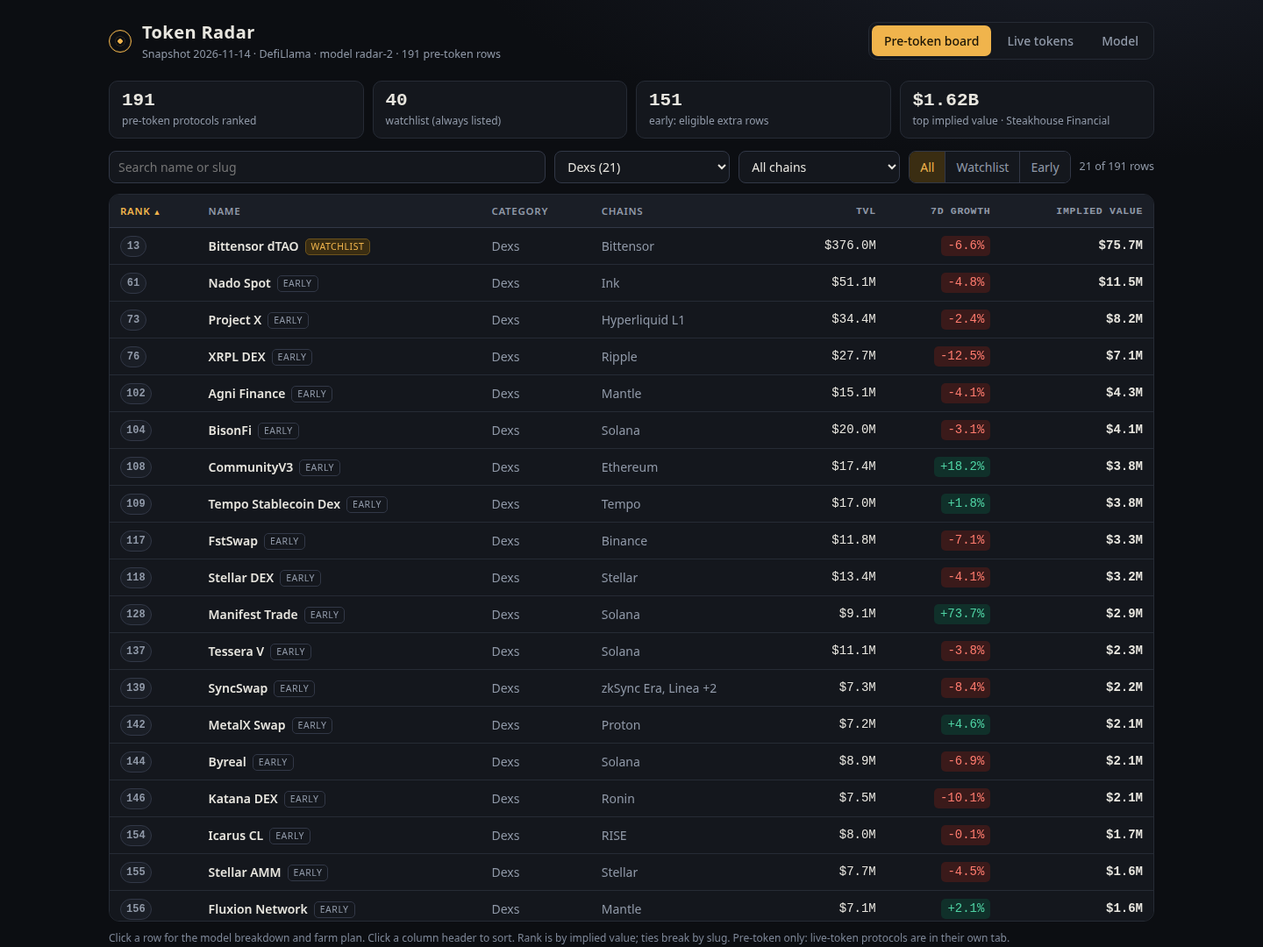
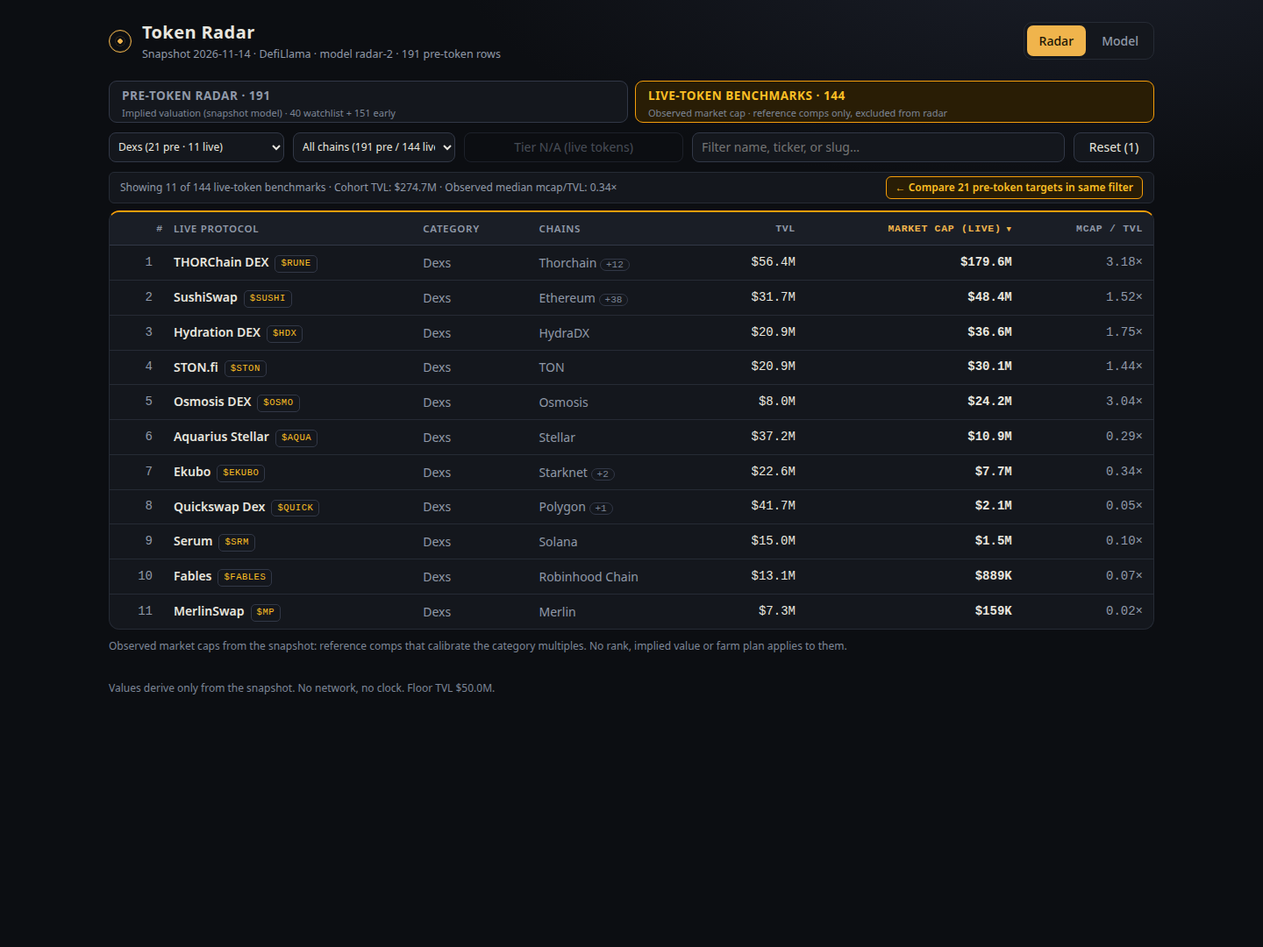
Dashboard v7: dual-regime separation & synced cohort filter bar (pre/live split, category+chain filters, cross-regime bridge)

diff --git a/dashboard/app.js b/dashboard/app.js
@@ -37,29 +37,10 @@
     var s = esc(c.slice(0, 2).join(', '));
     return '<span title="' + esc(c.join(', ')) + '">' + s + (c.length > 2 ? ' <span class="flat">+' + (c.length - 2) + '</span>' : '') + '</span>';
   }
-  function uniq(list, f) {
-    var m = {};
-    list.forEach(function (r) { f(r).forEach(function (k) { m[k] = (m[k] || 0) + 1; }); });
-    return Object.keys(m).sort(function (a, b) { return a < b ? -1 : a > b ? 1 : 0; }).map(function (k) { return [k, m[k]]; });
-  }
-  function opts(pairs, all) {
-    return '<option value="">' + all + '</option>' + pairs.map(function (p) { return '<option value="' + esc(p[0]) + '">' + esc(p[0]) + ' (' + p[1] + ')</option>'; }).join('');
-  }
-  function cmp(key, dir) {
-    return function (a, b) {
-      var va = a[key], vb = b[key];
-      if (va === null || va === undefined) va = dir === 'asc' ? Infinity : -Infinity;
-      if (vb === null || vb === undefined) vb = dir === 'asc' ? Infinity : -Infinity;
-      if (typeof va === 'string') { va = va.toLowerCase(); vb = String(vb).toLowerCase(); }
-      var d = va < vb ? -1 : va > vb ? 1 : 0;
-      if (dir === 'desc') d = -d;
-      return d || (a.slug < b.slug ? -1 : a.slug > b.slug ? 1 : 0);
-    };
-  }
   function head(cols, st) {
     return '<thead><tr>' + cols.map(function (c) {
       var on = st.key === c[0], s = on ? ' aria-sort="' + (st.dir === 'asc' ? 'ascending' : 'descending') + '"' : '';
-      return '<th class="' + (c[2] ? 'n' : '') + '"' + s + '><button data-sort="' + c[0] + '">' + c[1] + '</button></th>';
+      return '<th class="' + (c[2] ? 'n' : '') + '"' + s + '>' + (c[3] ? c[1] : '<button data-sort="' + c[0] + '">' + c[1] + '</button>') + '</th>';
     }).join('') + '</tr></thead>';
   }
   function bindSort(st, redraw) {
@@ -67,71 +48,135 @@
       b.onclick = function () {
         var k = b.getAttribute('data-sort');
         if (st.key === k) st.dir = st.dir === 'asc' ? 'desc' : 'asc';
-        else { st.key = k; st.dir = (k === 'rank' || k === 'name' || k === 'category') ? 'asc' : 'desc'; }
+        else { st.key = k; st.dir = NAT[k] || 'desc'; }
         redraw();
       };
     });
   }
 
-  // ---------- board ----------
-  var B = { key: 'rank', dir: 'asc', q: '', cat: '', chain: '', scope: 'all' };
-  var BCOLS = [['rank', 'Rank'], ['name', 'Name'], ['category', 'Category'], ['chains_n', 'Chains'], ['tvl_usd', 'TVL', 1], ['change_7d', '7d growth', 1], ['implied_value_usd', 'Implied value', 1]];
-  rows.forEach(function (r) { r.chains_n = r.chains.length; });
-
+  // ---------- radar: two regimes (pre / live) sharing one filter bar, never one tbody ----------
+  var F = R.facets, GM = F.global_mult, catMult = {};
+  F.categories.forEach(function (c) { catMult[c.id] = c.mult; });
+  var S = { mode: 'pre', cat: '', chain: '', tier: '', q: '', card: '', pre: { key: 'rank', dir: 'asc' }, liv: { key: 'mcap_usd', dir: 'desc' } };
+  var NAT = { rank: 'asc', name: 'asc', cat: 'asc', pc: 'asc' };
+  var PCOLS = [['rank', 'Rank'], ['name', 'Protocol'], ['cat', 'Category'], ['pc', 'Chains'], ['tvl_usd', 'TVL', 1], ['change_7d', '7d TVL', 1], ['implied_value_usd', 'Implied value', 1]];
+  var LCOLS = [['ord', '#', 1, 1], ['name', 'Live protocol'], ['cat', 'Category'], ['pc', 'Chains'], ['tvl_usd', 'TVL', 1], ['mcap_usd', 'Market cap (live)', 1], ['mcap_tvl', 'Mcap / TVL', 1]];
+  function cmpStr(a, b) { return a < b ? -1 : a > b ? 1 : 0; }
+  function sorter(st) {
+    return function (a, b) {
+      var va = a[st.key], vb = b[st.key], na = va === null || va === undefined, nb = vb === null || vb === undefined;
+      if (na || nb) { if (na && nb) return cmpStr(a.slug, b.slug); return na ? 1 : -1; }
+      if (typeof va === 'string') { va = va.toLowerCase(); vb = vb.toLowerCase(); }
+      var d = cmpStr(va, vb);
+      return (st.dir === 'desc' ? -d : d) || cmpStr(a.slug, b.slug);
+    };
+  }
+  function match(r, mode, noQ) {
+    if (S.cat && r.cat !== S.cat) return false;
+    if (S.chain && r.chains.indexOf(S.chain) < 0) return false;
+    if (mode === 'pre' && S.tier && (S.tier === 'watch') !== r.watchlist) return false;
+    var q = noQ ? '' : S.q.trim().toLowerCase();
+    return !q || r.name.toLowerCase().indexOf(q) >= 0 || r.slug.indexOf(q) >= 0 || (mode === 'live' && (r.symbol || '').toLowerCase().indexOf(q) >= 0);
+  }
+  function nActive() { return (S.cat ? 1 : 0) + (S.chain ? 1 : 0) + (S.tier && S.mode === 'pre' ? 1 : 0) + (S.q.trim() ? 1 : 0); }
+  function chainCell(r) { return esc(r.pc) + (r.chains.length > 1 ? ' <span class="pill" title="' + esc(r.chains.join(', ')) + '">+' + (r.chains.length - 1) + '</span>' : ''); }
+  function fo(arr, f, all) {
+    return '<option value="">' + all + '</option>' + arr.map(function (c) { return '<option value="' + esc(c.id) + '">' + esc(c.id) + ' (' + c.pre + ' pre · ' + c.live + ' live)</option>'; }).join('');
+  }
+  function mult(v) { return v.toFixed(2) + '×'; }
+  function median(list) {
+    var a = list.map(function (r) { return r.mcap_tvl; }).sort(function (p, q) { return p - q; }), n = a.length;
+    return n ? (n % 2 ? a[(n - 1) / 2] : (a[n / 2 - 1] + a[n / 2]) / 2) : null;
+  }
   function boardView() {
-    var early = R.extra_size;
+    var np = rows.length, nl = live.length, wl = R.watchlist_size;
     app.innerHTML =
-      '<section class="stats">' +
-      '<div class="stat"><b>' + R.board_size + '</b><span>pre-token protocols ranked</span></div>' +
-      '<div class="stat"><b>' + R.watchlist_size + '</b><span>watchlist (always listed)</span></div>' +
-      '<div class="stat"><b>' + early + '</b><span>early: eligible extra rows</span></div>' +
-      '<div class="stat"><b>' + usd(rows[0].implied_value_usd) + '</b><span>top implied value · ' + esc(rows[0].name) + '</span></div></section>' +
-      '<div class="bar"><input id="q" type="search" placeholder="Search name or slug" aria-label="Search" value="' + esc(B.q) + '">' +
-      '<select id="fc" aria-label="Category">' + opts(uniq(rows, function (r) { return [cat(r)]; }), 'All categories') + '</select>' +
-      '<select id="fh" aria-label="Chain">' + opts(uniq(rows, function (r) { return r.chains; }), 'All chains') + '</select>' +
-      '<div class="seg" id="sc">' + [['all', 'All'], ['watch', 'Watchlist'], ['early', 'Early']].map(function (s) { return '<button data-sc="' + s[0] + '" aria-pressed="' + (B.scope === s[0]) + '">' + s[1] + '</button>'; }).join('') + '</div>' +
-      '<span class="count" id="cnt"></span></div>' +
-      '<div class="wrap"><table id="bt"></table></div>' +
-      '<p class="hint">Click a row for the model breakdown and farm plan. Click a column header to sort. Rank is by implied value; ties break by slug. Pre-token only: live-token protocols are in their own tab.</p>';
-    var fc = document.getElementById('fc'), fh = document.getElementById('fh'), q = document.getElementById('q');
-    fc.value = B.cat; fh.value = B.chain;
-    q.oninput = function () { B.q = q.value; drawBoard(); };
-    fc.onchange = function () { B.cat = fc.value; drawBoard(); };
-    fh.onchange = function () { B.chain = fh.value; drawBoard(); };
-    app.querySelectorAll('[data-sc]').forEach(function (b) {
-      b.onclick = function () {
-        B.scope = b.getAttribute('data-sc');
-        app.querySelectorAll('[data-sc]').forEach(function (o) { o.setAttribute('aria-pressed', o === b); });
-        drawBoard();
-      };
-    });
+      '<div class="reg"><button data-m="pre" class="rp"><b>PRE-TOKEN RADAR · ' + np + '</b><small>Implied valuation (snapshot model) · ' + wl + ' watchlist + ' + R.extra_size + ' early</small></button>' +
+      '<button data-m="live" class="rl"><b>LIVE-TOKEN BENCHMARKS · ' + nl + '</b><small>Observed market cap · reference comps only, excluded from radar</small></button></div>' +
+      '<div class="bar"><select id="f-cat" aria-label="Category">' + fo(F.categories, 0, 'All categories (' + np + ' pre / ' + nl + ' live)') + '</select>' +
+      '<select id="f-chain" aria-label="Chain">' + fo(F.chains, 0, 'All chains (' + np + ' pre / ' + nl + ' live)') + '</select>' +
+      '<div class="seg" id="f-tier"></div><input id="f-q" type="search" aria-label="Search"><button id="f-reset" class="rst"></button></div>' +
+      '<div class="strip" id="strip"></div><div class="wrap"><table id="bt"></table></div><div id="card"></div>' +
+      '<p class="hint" id="hint"></p>';
+    var fc = document.getElementById('f-cat'), fh = document.getElementById('f-chain'), q = document.getElementById('f-q');
+    fc.value = S.cat; fh.value = S.chain; q.value = S.q;
+    app.querySelectorAll('[data-m]').forEach(function (b) { b.onclick = function () { location.hash = b.getAttribute('data-m') === 'live' ? '#live' : '#board'; }; });
+    q.oninput = function () { S.q = q.value; drawBoard(); };
+    fc.onchange = function () { S.cat = fc.value; drawBoard(); };
+    fh.onchange = function () { S.chain = fh.value; drawBoard(); };
+    document.getElementById('f-reset').onclick = function () { resetAll(); };
     drawBoard();
-    document.querySelector('.wrap').scrollTop = B.scroll || 0;
+    document.querySelector('.wrap').scrollTop = S.scroll || 0;
+  }
+  function resetAll() {
+    S.cat = S.chain = S.tier = S.q = '';
+    document.getElementById('f-cat').value = ''; document.getElementById('f-chain').value = ''; document.getElementById('f-q').value = '';
+    drawBoard();
   }
   function drawBoard() {
-    var q = B.q.trim().toLowerCase();
-    var list = rows.filter(function (r) {
-      if (B.scope === 'watch' && !r.watchlist) return false;
-      if (B.scope === 'early' && r.watchlist) return false;
-      if (B.cat && cat(r) !== B.cat) return false;
-      if (B.chain && r.chains.indexOf(B.chain) < 0) return false;
-      return !q || r.name.toLowerCase().indexOf(q) >= 0 || r.slug.indexOf(q) >= 0;
-    }).sort(cmp(B.key, B.dir));
-    document.getElementById('cnt').textContent = list.length + ' of ' + rows.length + ' rows';
-    var body = list.length ? list.map(function (r) {
-      return '<tr tabindex="0" data-slug="' + esc(r.slug) + '"><td>' + badge(r.rank) + '</td>' +
-        '<td class="nm"><b>' + esc(r.name) + '</b>' + (r.watchlist ? '<span class="tag wl">watchlist</span>' : '<span class="tag">early</span>') + '</td>' +
-        '<td class="mut">' + esc(cat(r)) + '</td><td class="mut">' + chains(r) + '</td>' +
-        '<td class="n">' + usd(r.tvl_usd) + '</td><td class="n">' + chg(r.change_7d) + '</td><td class="n val">' + usd(r.implied_value_usd) + '</td></tr>';
-    }).join('') : '<tr><td colspan="7" class="empty">No rows match these filters.</td></tr>';
-    document.getElementById('bt').innerHTML = head(BCOLS, B) + '<tbody>' + body + '</tbody>';
-    bindSort(B, drawBoard);
-    document.querySelectorAll('#bt tbody tr[data-slug]').forEach(function (tr) {
-      var go = function () { B.scroll = document.querySelector('.wrap').scrollTop; location.hash = '#p/' + tr.getAttribute('data-slug'); };
+    var pre = S.mode === 'pre', main = app;
+    main.className = pre ? '' : 'regime-live';
+    app.querySelectorAll('[data-m]').forEach(function (b) { b.setAttribute('aria-pressed', b.getAttribute('data-m') === S.mode); });
+    var tier = document.getElementById('f-tier');
+    tier.className = 'seg' + (pre ? '' : ' off');
+    tier.innerHTML = pre ? [['', 'All ' + rows.length], ['watch', 'Watchlist ' + R.watchlist_size], ['early', 'Early ' + R.extra_size]].map(function (s) { return '<button data-t="' + s[0] + '" aria-pressed="' + (S.tier === s[0]) + '">' + s[1] + '</button>'; }).join('') : '<span>Tier N/A (live tokens)</span>';
+    tier.querySelectorAll('[data-t]').forEach(function (b) { b.onclick = function () { S.tier = b.getAttribute('data-t'); drawBoard(); }; });
+    document.getElementById('f-q').placeholder = pre ? 'Filter name or slug…' : 'Filter name, ticker, or slug…';
+    var n = nActive(), rs = document.getElementById('f-reset');
+    rs.textContent = n ? 'Reset (' + n + ')' : 'Reset'; rs.disabled = !n;
+    var st = pre ? S.pre : S.liv, src = pre ? rows : live;
+    var list = src.filter(function (r) { return match(r, S.mode); }).sort(sorter(st));
+    var oth = (pre ? live : rows).filter(function (r) { return match(r, pre ? 'live' : 'pre', true); }).length;
+    var tvl = list.reduce(function (a, r) { return a + r.tvl_usd; }, 0), left, right;
+    if (pre) {
+      var vw = list.filter(function (r) { return r.watchlist; }).length;
+      left = 'Showing ' + list.length + ' of ' + rows.length + ' pre-token protocols (' + vw + ' watchlist, ' + (list.length - vw) + ' early) · Cohort TVL: ' + usd(tvl);
+      right = (S.cat ? esc(S.cat) + ' peer multiple ' + mult(catMult[S.cat]) : 'Global anchor median: ' + mult(GM)) + ' · <button id="bridge">' + (S.cat ? 'Compare ' + oth + ' live peers' : 'View ' + oth + ' live comps') + ' →</button>';
+    } else {
+      var md = median(list);
+      left = 'Showing ' + list.length + ' of ' + live.length + ' live-token benchmarks · Cohort TVL: ' + usd(tvl) + ' · Observed median mcap/TVL: ' + (md === null ? '—' : mult(md));
+      right = '<button id="bridge">← Compare ' + oth + ' pre-token targets in same filter</button>';
+    }
+    document.getElementById('strip').innerHTML = '<span>' + left + '</span><span>' + right + '</span>';
+    document.getElementById('bridge').onclick = function () { S.mode = pre ? 'live' : 'pre'; S.q = ''; S.card = ''; location.hash = pre ? '#live' : '#board'; };
+    var body;
+    if (!list.length) {
+      var sum = [S.cat && 'Category: ' + S.cat, S.chain && 'Chain: ' + S.chain, pre && S.tier && 'Tier: ' + S.tier, S.q.trim() && 'Search: ' + S.q.trim()].filter(Boolean).join(' · ');
+      body = '<tr class="empty-row"><td colspan="7"><b>0 ' + (pre ? 'pre-token protocols' : 'live-token benchmarks') + ' match [' + esc(sum) + '].</b>' +
+        (!pre && S.cat ? '<span>Valuation fallback note: radar-2 anchors ' + esc(S.cat) + ' across all chains (peer multiple ' + mult(catMult[S.cat]) + ', shrunk toward global median ' + mult(GM) + ').</span>' : '') +
+        '<span>' + (S.chain ? '<button data-clr="chain">Clear chain (' + esc(S.chain) + ')</button> ' : '') + '<button data-clr="all">Reset all filters</button></span></td></tr>';
+    } else if (pre) {
+      body = list.map(function (r) {
+        return '<tr tabindex="0" data-slug="' + esc(r.slug) + '"><td>' + badge(r.rank) + '</td>' +
+          '<td class="nm"><b>' + esc(r.name) + '</b>' + (r.watchlist ? '<span class="tag wl">watchlist</span>' : '<span class="tag">early</span>') + '</td>' +
+          '<td class="mut">' + esc(r.cat) + '</td><td class="mut">' + chainCell(r) + '</td>' +
+          '<td class="n">' + usd(r.tvl_usd) + '</td><td class="n">' + chg(r.change_7d) + '</td><td class="n val">' + usd(r.implied_value_usd) + '</td></tr>';
+      }).join('');
+    } else {
+      body = list.map(function (r, i) {
+        return '<tr tabindex="0" data-live="' + esc(r.slug) + '"><td class="n mut">' + (i + 1) + '</td><td class="nm"><b>' + esc(r.name) + '</b>' + (r.symbol ? '<span class="tag sym">$' + esc(r.symbol) + '</span>' : '') + '</td>' +
+          '<td class="mut">' + esc(r.cat) + '</td><td class="mut">' + chainCell(r) + '</td><td class="n">' + usd(r.tvl_usd) + '</td><td class="n val">' + usd(r.mcap_usd) + '</td><td class="n mut">' + mult(r.mcap_tvl) + '</td></tr>';
+      }).join('');
+    }
+    document.getElementById('bt').innerHTML = head(pre ? PCOLS : LCOLS, st) + '<tbody>' + body + '</tbody>';
+    document.getElementById('hint').textContent = pre ? 'Click a row for the model breakdown and farm plan. Global rank stays fixed while filtering; ties break by slug.' : 'Observed market caps from the snapshot: reference comps that calibrate the category multiples. No rank, implied value or farm plan applies to them.';
+    var card = document.getElementById('card'), lr = !pre && S.card && bySlugL[S.card];
+    card.innerHTML = lr ? '<div class="lcard"><b>' + esc(lr.name) + (lr.symbol ? ' $' + esc(lr.symbol) : '') + '</b> · ' + esc(lr.cat) + ' · market cap ' + full(lr.mcap_usd) + ' · TVL ' + full(lr.tvl_usd) + ' · observed mcap/TVL ' + mult(lr.mcap_tvl) + ' · ' + esc(lr.chains.join(', ')) + ' <button id="cx">Close</button></div>' : '';
+    if (lr) document.getElementById('cx').onclick = function () { S.card = ''; drawBoard(); };
+    bindSort(st, drawBoard);
+    app.querySelectorAll('[data-clr]').forEach(function (b) { b.onclick = function () { if (b.getAttribute('data-clr') === 'chain') { S.chain = ''; document.getElementById('f-chain').value = ''; drawBoard(); } else resetAll(); }; });
+    app.querySelectorAll('#bt tbody tr[data-live]').forEach(function (tr) {
+      var go = function () { S.card = tr.getAttribute('data-live'); drawBoard(); };
+      tr.onclick = go; tr.onkeydown = function (e) { if (e.key === 'Enter') go(); };
+    });
+    app.querySelectorAll('#bt tbody tr[data-slug]').forEach(function (tr) {
+      var go = function () { S.scroll = document.querySelector('.wrap').scrollTop; location.hash = '#p/' + tr.getAttribute('data-slug'); };
       tr.onclick = go;
       tr.onkeydown = function (e) { if (e.key === 'Enter') go(); };
     });
   }
+  var bySlugL = {};
+  live.forEach(function (r) { bySlugL[r.slug] = r; });
 
   // ---------- detail ----------
   function track(v, lo, hi) {
@@ -169,39 +214,6 @@
     document.getElementById('bk').onclick = function () { location.hash = '#board'; };
   }
 
-  // ---------- live ----------
-  var L = { key: 'mcap_usd', dir: 'desc', q: '', cat: '' };
-  var LCOLS = [['symbol', 'Symbol'], ['name', 'Name'], ['category', 'Category'], ['tvl_usd', 'TVL', 1], ['change_7d', '7d growth', 1], ['mcap_usd', 'Market cap', 1], ['mcap_tvl', 'Mcap / TVL', 1]];
-  function liveView() {
-    app.innerHTML =
-      '<section class="stats"><div class="stat"><b>' + live.length + '</b><span>live-token protocols (mcap reported)</span></div>' +
-      '<div class="stat"><b>' + usd(live.reduce(function (a, r) { return a + r.mcap_usd; }, 0)) + '</b><span>combined market cap</span></div>' +
-      '<div class="stat"><b>' + R.global_median.toFixed(3) + '</b><span>global median mcap / TVL</span></div>' +
-      '<div class="stat"><b>' + R.categories.filter(function (c) { return c.n > 0; }).length + '</b><span>categories with live peers</span></div></section>' +
-      '<div class="bar"><input id="lq" type="search" placeholder="Search name, symbol or slug" aria-label="Search" value="' + esc(L.q) + '">' +
-      '<select id="lc" aria-label="Category">' + opts(uniq(live, function (r) { return [cat(r)]; }), 'All categories') + '</select><span class="count" id="lcnt"></span></div>' +
-      '<div class="wrap"><table id="lt"></table></div>' +
-      '<p class="hint">Real market caps from the snapshot, shown as reported. These protocols already have a token, so they are not ranked on the pre-token board; their mcap / TVL ratios are what calibrate the category multiples.</p>';
-    var q = document.getElementById('lq'), c = document.getElementById('lc');
-    c.value = L.cat;
-    q.oninput = function () { L.q = q.value; drawLive(); };
-    c.onchange = function () { L.cat = c.value; drawLive(); };
-    drawLive();
-  }
-  function drawLive() {
-    var q = L.q.trim().toLowerCase();
-    var list = live.filter(function (r) {
-      if (L.cat && cat(r) !== L.cat) return false;
-      return !q || r.name.toLowerCase().indexOf(q) >= 0 || r.slug.indexOf(q) >= 0 || (r.symbol || '').toLowerCase().indexOf(q) >= 0;
-    }).sort(cmp(L.key, L.dir));
-    document.getElementById('lcnt').textContent = list.length + ' of ' + live.length;
-    document.getElementById('lt').innerHTML = head(LCOLS, L) + '<tbody>' + list.map(function (r) {
-      return '<tr style="cursor:default"><td><b>' + esc(r.symbol || '—') + '</b></td><td class="nm">' + esc(r.name) + '</td><td class="mut">' + esc(cat(r)) + '</td>' +
-        '<td class="n">' + usd(r.tvl_usd) + '</td><td class="n">' + chg(r.change_7d) + '</td><td class="n val">' + usd(r.mcap_usd) + '</td><td class="n mut">' + r.mcap_tvl.toFixed(2) + '</td></tr>';
-    }).join('') + '</tbody>';
-    bindSort(L, drawLive);
-  }
-
   // ---------- model ----------
   function modelView() {
     var withPeers = R.categories.filter(function (c) { return c.n > 0; }).sort(function (a, b) { return b.n - a.n || (a.category < b.category ? -1 : 1); }).slice(0, 8);
@@ -229,11 +241,12 @@
   var tabs = document.getElementById('tabs');
   tabs.querySelectorAll('button').forEach(function (b) { b.onclick = function () { location.hash = '#' + b.getAttribute('data-tab'); }; });
   function route() {
-    var h = location.hash.replace(/^#/, '') || 'board', tab = h.indexOf('p/') === 0 ? 'board' : h;
+    var h = location.hash.replace(/^#/, '') || 'board', tab = h.indexOf('p/') === 0 || h === 'live' ? 'board' : h;
     if (['board', 'live', 'model'].indexOf(tab) < 0) { tab = 'board'; h = 'board'; }
+    app.className = '';
+    if (h === 'live' || h === 'board') S.mode = h === 'live' ? 'live' : 'pre';
     tabs.querySelectorAll('button').forEach(function (b) { b.setAttribute('aria-selected', b.getAttribute('data-tab') === tab); });
     if (h.indexOf('p/') === 0) detailView(decodeURIComponent(h.slice(2)));
-    else if (h === 'live') liveView();
     else if (h === 'model') modelView();
     else boardView();
     if (h.indexOf('p/') === 0) window.scrollTo(0, 0);

diff --git a/lib/model.ts b/lib/model.ts
@@ -164,7 +164,36 @@ export interface Radar {
   as_of: string; source: string; floor_usd: number; model_version: string; constants: typeof MODEL;
   global_median: number; categories: CategoryStat[];
   watchlist_size: number; board_size: number; extra_size: number; live_size: number;
-  rows: BoardRow[]; live: LiveRow[];
+  rows: Array<BoardRow & { cat: string; pc: string }>; live: Array<LiveRow & { cat: string; pc: string }>;
+  facets: { categories: Array<{ id: string; pre: number; live: number; mult: number }>; chains: Array<{ id: string; pre: number; live: number }>; global_mult: number };
+}
+
+// code-unit comparison (no locale), used for every facet sort
+const cmpStr = (a: string, b: string): number => (a < b ? -1 : a > b ? 1 : 0);
+const r4 = (x: number): number => Math.round(x * 1e4) / 1e4;
+
+// Facets are precomputed here so the browser never recomputes category/chain counts or peer multiples.
+// The snapshot has no per-chain TVL, so a protocol's primary chain ("pc") is its first listed chain.
+function buildFacets(board: BoardRow[], live: LiveRow[], table: ReturnType<typeof categoryTable>) {
+  const cats = new Map<string, { pre: number; live: number }>();
+  const chs = new Map<string, { pre: number; live: number }>();
+  const bump = (m: Map<string, { pre: number; live: number }>, k: string, f: 'pre' | 'live') => {
+    const e = m.get(k) ?? { pre: 0, live: 0 };
+    e[f]++;
+    m.set(k, e);
+  };
+  for (const [list, f] of [[board, 'pre'], [live, 'live']] as const) {
+    for (const r of list) {
+      bump(cats, r.category ?? UNCATEGORIZED, f);
+      for (const c of new Set(r.chains)) bump(chs, c, f);
+    }
+  }
+  const order = <T extends { id: string; pre: number }>(a: T, b: T) => b.pre - a.pre || cmpStr(a.id, b.id);
+  return {
+    categories: [...cats].map(([id, e]) => ({ id, pre: e.pre, live: e.live, mult: r4(table.lookup.get(id)?.multiple ?? table.global_median) })).sort(order),
+    chains: [...chs].map(([id, e]) => ({ id, pre: e.pre, live: e.live })).sort(order),
+    global_mult: r4(table.global_median),
+  };
 }
 
 export function buildRadar(snapshot: Snapshot): { board: BoardRow[]; radar: Radar } {
@@ -199,7 +228,9 @@ export function buildRadar(snapshot: Snapshot): { board: BoardRow[]; radar: Rada
     as_of: snapshot.as_of, source: snapshot.source, floor_usd: snapshot.floor_usd, model_version: MODEL.version, constants: MODEL,
     global_median: table.global_median, categories: table.stats,
     watchlist_size: wl.size, board_size: board.length, extra_size: board.filter((r) => !r.watchlist).length, live_size: live.length,
-    rows: board, live,
+    rows: board.map((r) => ({ ...r, cat: r.category ?? UNCATEGORIZED, pc: r.chains[0] ?? '—' })),
+    live: live.map((r) => ({ ...r, mcap_tvl: r4(r.mcap_tvl), cat: r.category ?? UNCATEGORIZED, pc: r.chains[0] ?? '—' })),
+    facets: buildFacets(board, live, table),
   };
   return { board, radar };
 }

diff --git a/dashboard/app.css b/dashboard/app.css
@@ -102,3 +102,32 @@ code{font-family:var(--mono);background:var(--panel2);padding:1px 5px;border-rad
 .foot{max-width:1240px;margin:0 auto;padding:0 24px 28px;color:var(--dim);font-size:12px}
 @media(max-width:820px){.stats{grid-template-columns:repeat(2,1fr)}.grid2{grid-template-columns:1fr}.dh .big{margin-left:0;text-align:left}.wrap{max-height:none}.top{padding:16px}main{padding:6px 14px 24px}}
 @media(prefers-reduced-motion:no-preference){tbody tr{transition:background .1s}}
+/* v7 regimes + synced cohort filters */
+.reg{display:grid;grid-template-columns:1fr 1fr;gap:8px;margin-bottom:8px}
+.reg button{display:flex;flex-direction:column;gap:2px;align-items:flex-start;height:48px;padding:6px 14px;background:var(--panel);border:1px solid var(--line2);border-radius:9px;cursor:pointer;color:var(--mute)}
+.reg b{font-size:13.5px;letter-spacing:.04em}
+.reg small{font-size:11px;color:var(--dim)}
+.reg .rp[aria-pressed=true]{border-color:#10b981;background:#06281e;color:#34d399}
+.reg .rl[aria-pressed=true]{border-color:#f59e0b;background:#291d05;color:#fbbf24}
+.bar{flex-wrap:nowrap;height:40px;margin-bottom:8px}
+.bar select,.bar input,.bar .seg,.rst{height:34px}
+#f-cat{width:210px}#f-chain{width:185px}#f-q{min-width:160px}
+#f-tier{width:250px}#f-tier button{flex:1;padding:0 6px}
+.seg.off{opacity:.45;pointer-events:none}
+.seg.off span{flex:1;text-align:center;line-height:32px;color:var(--mute)}
+.rst{width:92px;background:var(--panel);border:1px solid var(--line2);border-radius:8px;cursor:pointer}
+.rst:disabled{opacity:.45;cursor:default}
+.strip{display:flex;justify-content:space-between;align-items:center;gap:12px;height:36px;padding:0 12px;margin-bottom:8px;font-size:12px;color:var(--mute);background:var(--panel);border:1px solid var(--line);border-radius:6px;white-space:nowrap}
+.strip button,.empty-row button{height:26px;padding:0 10px;border:1px solid #10b981;border-radius:6px;background:#06281e;color:#34d399;cursor:pointer;font-weight:600}
+.regime-live .strip button,.regime-live .empty-row button{border-color:#f59e0b;background:#291d05;color:#fbbf24}
+.wrap{border-top:2px solid #10b981}
+.regime-live .wrap{border-top-color:#f59e0b}
+.pill{font:11px var(--mono);border:1px solid var(--line2);border-radius:9px;padding:0 6px;color:var(--dim)}
+.tag.sym{font-family:var(--mono);text-transform:none;color:#fbbf24}
+.empty-row td{height:120px;text-align:center;color:var(--mute)}
+.empty-row b{display:block;font-size:13px;color:var(--ink)}
+.empty-row span{display:block;font-size:12px;margin-top:6px}
+.lcard{margin-top:8px;padding:8px 12px;font-size:12.5px;background:#291d05;border:1px solid #f59e0b;border-radius:8px}
+.lcard button{margin-left:8px;border:1px solid var(--line2);border-radius:6px;background:none;cursor:pointer}
+.bar select{font-size:12px;padding:0 6px}
+#f-tier button{white-space:nowrap;font-size:12px}

diff --git a/main.ts b/main.ts
@@ -34,6 +34,16 @@ if (issue !== null) {
   process.exit(1);
 }
 
+// Invariant: the ordered (slug, implied value) array of the v1 board must be unchanged by dashboard work.
+const refFile = join(here, 'scripts', 'ref-order.json');
+if (existsSync(refFile)) {
+  const ref = JSON.parse(readFileSync(refFile, 'utf8')) as { as_of: string; order: Array<[string, number]> };
+  if (ref.as_of === snapshot.as_of && JSON.stringify(board.map((r) => [r.slug, r.implied_value_usd])) !== JSON.stringify(ref.order)) {
+    process.stderr.write('token radar: board order/implied values differ from the v1 reference\n');
+    process.exit(1);
+  }
+}
+
 mkdirSync(out, { recursive: true });
 writeFileSync(join(out, 'board.json'), `${JSON.stringify({ rows: board })}\n`);
 writeFileSync(join(out, 'data.js'), dataScript(radar));
@@ -49,7 +59,10 @@ function copyFiles(from: string, to: string): string[] {
   }
   return names;
 }
-copyFiles(join(here, 'dashboard'), join(out, 'dashboard'));
+const dashNames = copyFiles(join(here, 'dashboard'), join(out, 'dashboard'));
+const dashBytes = dashNames.reduce((a, n) => a + statSync(join(out, 'dashboard', n)).size, 0);
+if (dashBytes >= TEXT_MAX_BYTES) throw new Error(`dashboard/ is ${dashBytes} bytes, limit ${TEXT_MAX_BYTES}`);
+process.stdout.write(`token radar: dashboard/ ${dashBytes} bytes, headroom ${TEXT_MAX_BYTES - dashBytes}\n`);
 const shots = copyFiles(shotsDir, join(out, 'screenshots'));
 if (shots.length < 3) {
   process.stderr.write(`token radar: ${shotsDir} holds ${shots.length} image(s); 3 are required, so no dossier was written\n`);

diff --git a/dashboard/index.html b/dashboard/index.html
@@ -6,8 +6,7 @@
 <body>
 <header class="top"><div class="brand"><span class="blip" aria-hidden="true"></span><div><h1>Token Radar</h1><p id="sub">Loading…</p></div></div>
 <nav id="tabs" class="tabs" role="tablist" aria-label="Views">
-<button role="tab" data-tab="board">Pre-token board</button>
-<button role="tab" data-tab="live">Live tokens</button>
+<button role="tab" data-tab="board">Radar</button>
 <button role="tab" data-tab="model">Model</button></nav></header>
 <main id="app" tabindex="-1"><noscript>This dashboard needs JavaScript.</noscript></main>
 <footer id="foot" class="foot"></footer>
